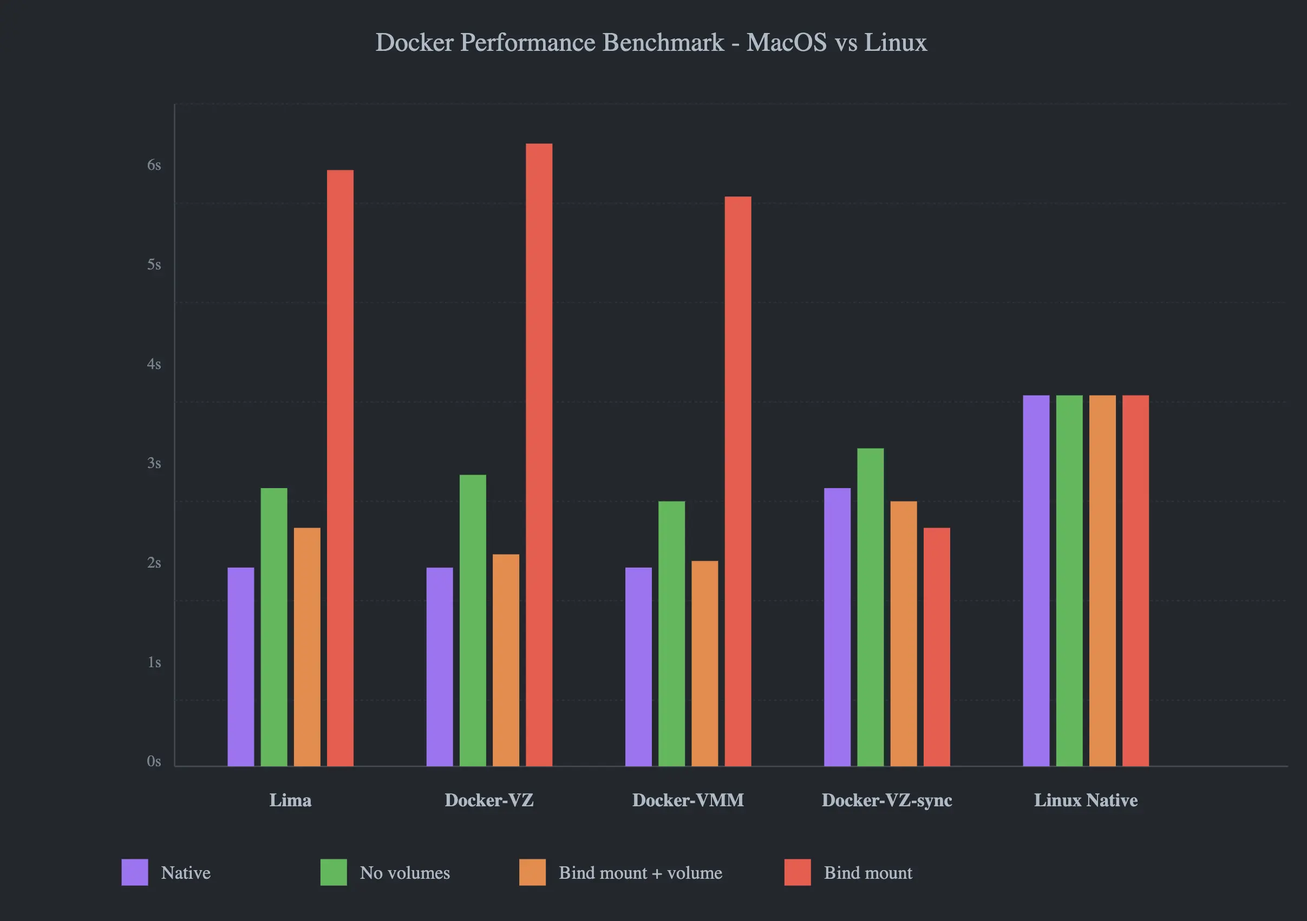
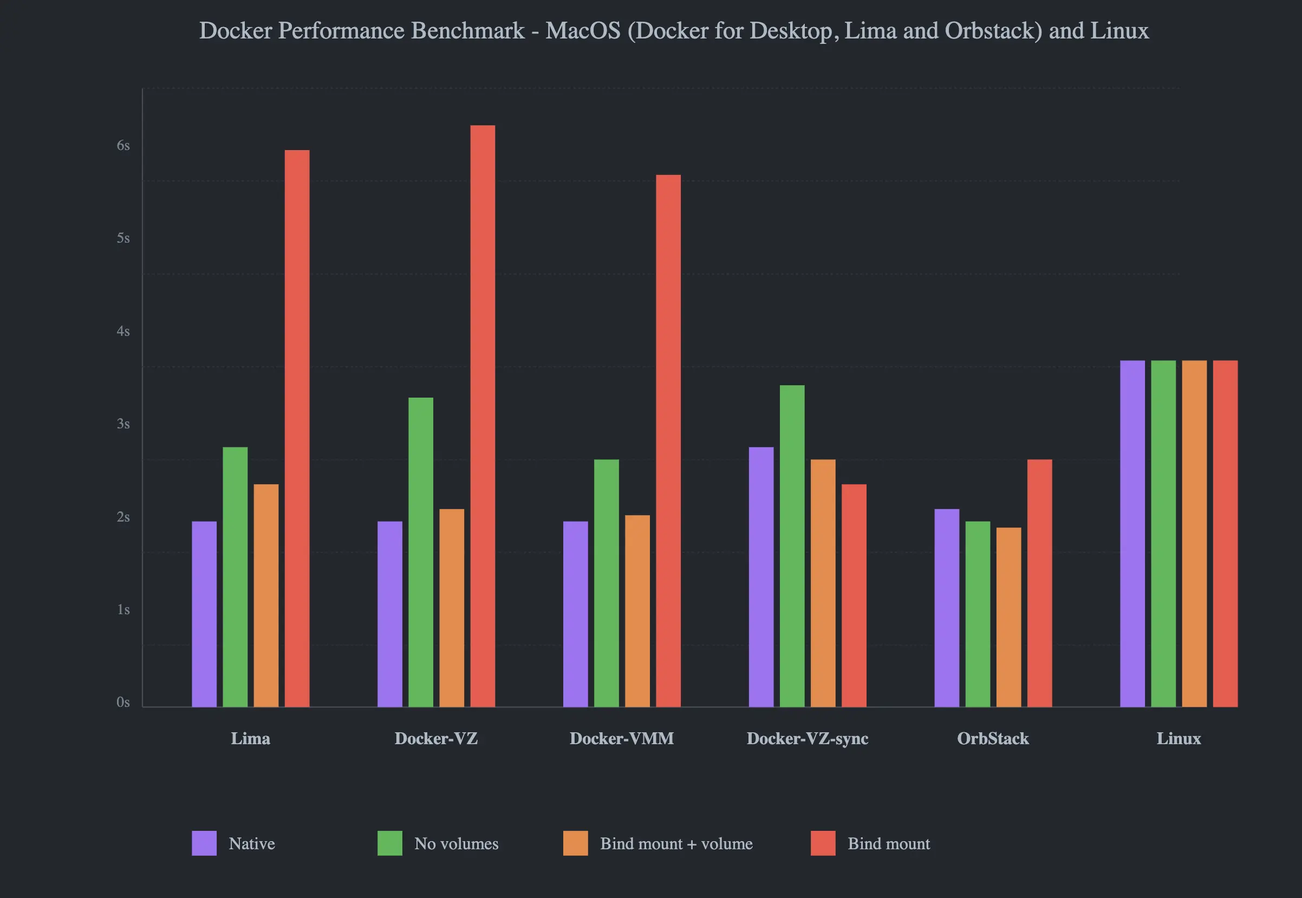
feat: add orbstack (#39)

diff --git a/src/content/posts/10-docker-macos-perf-update/index.md b/src/content/posts/10-docker-macos-perf-update/index.md
@@ -9,13 +9,17 @@ toc = "true"
 images = ["/images/posts/10-docker/og-benchmark-diagram.webp"]
 +++
 
+{{< notice info >}}
+**06/01/2024** Update: Many readers requested the inclusion of [OrbStack](https://orbstack.dev) in the benchmarks. This update introduces OrbStack's performance data, along with updated insights and comparisons.
+{{< /notice >}}
+
 ## TLDR
 
-[Two years after my first analysis](https://www.paolomainardi.com/posts/docker-performance-macos/) **of Docker performance on MacOS**, things have **improved significantly**. **VirtIOFS** is now much faster _(bind mounts are only 3x slower instead of 5-6x)_, and we have new solutions in the ecosystem. **[Lima](https://github.com/lima-vm/lima)** (open-source) **performs well and sometimes better than Docker Desktop**, while Docker's new **file synchronization** feature **offers impressive speed improvements** (59% faster) but **requires a paid subscription**. For the most stable performance, the **hybrid approach** (combining bind mounts with volumes) remains the best practice. Choose your setup based on your needs:
+[Two years after my first analysis](https://www.paolomainardi.com/posts/docker-performance-macos/) **of Docker performance on MacOS**, things have **improved significantly**. **VirtioFS** is now much faster _(bind mounts are only 3x slower instead of 5-6x)_, and we have new solutions in the ecosystem. **[Lima](https://github.com/lima-vm/lima)** (open-source) **performs well and sometimes better than Docker Desktop**, while Docker's new **file synchronization** feature **offers impressive speed improvements** (59% faster) but **requires a paid subscription**. Additionally, **[OrbStack](https://orbstack.dev/)** has emerged as a strong contender, offering excellent performance with bind mounts and native operations. For the most stable performance, the **hybrid approach** (combining bind mounts with volumes) remains the best practice. Choose your setup based on your needs:
 
-- **Fast, stable, and open-source**: Go with Lima.
-- **Maximum speed**: Use Docker Desktop with file synchronization.
-- **Stable performance**: Use the hybrid approach with volumes with any solution.
+- **Fast, stable, and open-source**: Go with **Lima**.
+- **Maximum speed**: Use **Docker Desktop with file synchronization** or **OrbStack**.
+- **Stable performance**: Use the **hybrid approach** with volumes with any solution.
 
 ## Introduction
 
@@ -23,52 +27,52 @@ images = ["/images/posts/10-docker/og-benchmark-diagram.webp"]
 
 Despite the unexpected success, the goal was to explain all the moving parts of Docker when running in a **virtualized environment** like MacOS or Windows. What I found was that in **some circumstances, the performance was very poor**, especially when using bind mounts, a common strategy when developing applications with Docker. At that time, I proposed some strategies, like using [named volumes](https://www.paolomainardi.com/posts/docker-performance-macos/#volumes) instead of bind mounts, or even using [devcontainer](https://www.paolomainardi.com/posts/docker-performance-macos/#gui-editors--ide-users) to improve the developer experience.
 
-Another technique I proposed was enabling the `VirtIOFS` file sharing driver, which was still an experimental feature at that time but could improve the file system performance significantly.
+Another technique I proposed was enabling the `VirtioFS` file sharing driver, which was still an experimental feature at that time but could improve the file system performance significantly.
 
 Now, **almost two years later**, how have things changed? What is the current state of Docker on MacOS? Let's find out together.
 
 ## Linux Virtualization on MacOS
 
-Before diving into some benchmarks, let's take a look at the current technologies that allow Docker to run on MacOS. We'll explore the **Virtualization Framework** and the **VirtIO** standard, which are used by almost all virtualization solutions on MacOS, including those specifically designed for containers like Docker for Desktop, Lima, Rancher Desktop, Podman Desktop, etc.
+Before diving into some benchmarks, let's take a look at the current technologies that allow Docker to run on MacOS. We'll explore the **Virtualization Framework** and the **VIRTIO** standard, which are used by almost all virtualization solutions on MacOS, including those specifically designed for containers like Docker for Desktop, Lima, Rancher Desktop, Podman Desktop, etc.
 
 ### Virtualization Framework
 
 One of the key elements of Docker solutions on MacOS is the **virtualization layer** that allows running Linux Virtual Machines on MacOS. This layer is called [Virtualization Framework](https://developer.apple.com/documentation/virtualization) and has been part of the Apple ecosystem since MacOS Big Sur, which was released in 2020 along with the first Apple Silicon Macs.
 
-It is based on the [Apple Hypervisor Framework](https://developer.apple.com/documentation/hypervisor) but offers high-level APIs to manage virtual machines for MacOS and Linux. It also implements virtual devices, such as network interfaces and block devices, following the VirtIO specifications. Another key feature is the ability to run x86_64 Linux binaries on [Apple Silicon through Rosetta 2](https://developer.apple.com/documentation/virtualization/running_intel_binaries_in_linux_vms_with_rosetta). This feature is particularly powerful as Rosetta is an extremely optimized translation layer, much faster than QEMU for this specific task and environment. Thanks to this integration, we can run `linux/amd64` containers when the `linux/arm64/v8` counterpart is unavailable.
+It is based on the [Apple Hypervisor Framework](https://developer.apple.com/documentation/hypervisor) but offers high-level APIs to manage virtual machines for MacOS and Linux. It also implements virtual devices, such as network interfaces and block devices, following the VIRTIO specifications. Another key feature is the ability to run x86_64 Linux binaries on [Apple Silicon through Rosetta 2](https://developer.apple.com/documentation/virtualization/running_intel_binaries_in_linux_vms_with_rosetta). This feature is particularly powerful as Rosetta is an extremely optimized translation layer, much faster than QEMU for this specific task and environment. Thanks to this integration, we can run `linux/amd64` containers when the `linux/arm64/v8` counterpart is unavailable.
 
 {{< figure src="/images/posts/10-docker/macos-virt-diagram.webp" title="MacOS virtualization architecture" >}}
 
 #### VirtIO drivers
 
-The biggest decision Apple made with this framework was adopting the [VirtIO](https://docs.oasis-open.org/VirtIO/VirtIO/v1.1/csprd01/VirtIO-v1.1-csprd01.html) standard to expose the host hardware to guest VMs as VirtIO drivers. This means that on the Linux side, we can use the same drivers as other hypervisors like KVM or QEMU, which are well-optimized and maintained by the Linux community. On the MacOS side, the system leverages the VirtIO kernel drivers implemented by Apple.
+The biggest decision Apple made with this framework was adopting the [VIRTIO](https://docs.oasis-open.org/virtio/virtio/v1.1/csprd01/virtio-v1.1-csprd01.html) standard to expose the host hardware to guest VMs as VirtIO drivers. This means that on the Linux side, we can use the same drivers as other hypervisors like KVM or QEMU, which are well-optimized and maintained by the Linux community. On the MacOS side, the system leverages the VirtIO kernel drivers implemented by Apple.
 
 The architecture looks more or less like this:
 
 {{< figure src="/images/posts/10-docker/macos-virtio.webp" title="Linux - MacOS VirtIO architecture" >}}
 
-As shown in the diagram, the VirtIO architecture comprises the following components:
+As shown in the diagram, the VIRTIO architecture comprises the following components:
 
 1. **Frontend**: The driver running in the guest VM, responsible for communicating with the backend driver.
 2. **Backend**: The driver running on the host, responsible for communicating with the frontend driver.
 3. **VirtIO queue**: The communication channel between the frontend and backend drivers.
 
-A real-world open-source example of this architecture can be found in QEMU. For instance, in VirtIO-net:
+A real-world open-source example of this architecture can be found in QEMU. For instance, in virtio-net:
 
-1. **Frontend**: https://github.com/qemu/qemu/blob/master/hw/net/VirtIO-net.c
-2. **Backend**: https://github.com/qemu/qemu/blob/master/hw/net/VirtIO-net.c
+1. **Frontend**: https://github.com/qemu/qemu/blob/master/hw/net/virtio-net.c
+2. **Backend**: https://github.com/qemu/qemu/blob/master/hw/net/virtio-net.c
 
 Apple implemented the backend driver in the Virtualization Framework and exposed the VirtIO queues to guest VMs, allowing the Linux kernel to use VirtIO drivers to communicate with the host hardware.
 
-As far as I know, the **Apple VirtIO drivers are not open source**. There are just [a few references in the XNU open-source repository](https://github.com/search?q=repo%3Aapple-oss-distributions%2Fxnu%20VirtIO&type=code). It's almost certain that everything is implemented in userspace, as confirmed by the currently exposed APIs: https://developer.apple.com/search/?q=VirtIO&type=Documentation.
+As far as I know, the **Apple VirtIO drivers are not open source**. There are just [a few references in the XNU open-source repository](https://github.com/search?q=repo%3Aapple-oss-distributions%2Fxnu%20virtio&type=code). It's almost certain that everything is implemented in userspace, as confirmed by the currently exposed APIs: https://developer.apple.com/search/?q=virtio&type=Documentation.
 
-Of course, I've simplified the architecture for clarity, but if you want to know more, I suggest reading the [VirtIO specification](https://docs.oasis-open.org/VirtIO/VirtIO/v1.1/csprd01/VirtIO-v1.1-csprd01.html), the [VirtIO on Linux](https://docs.kernel.org/driver-api/VirtIO/VirtIO.html) documentation, and the super-interesting RedHat article series _(which co-developed the standard with IBM)_ [Virtqueues and VirtIO ring: How the data travels](https://www.redhat.com/en/blog/virtqueues-and-VirtIO-ring-how-data-travels).
+Of course, I've simplified the architecture for clarity, but if you want to know more, I suggest reading the [VIRTIO specification](https://docs.oasis-open.org/virtio/virtio/v1.1/csprd01/virtio-v1.1-csprd01.html), the [Virtio on Linux](https://docs.kernel.org/driver-api/virtio/virtio.html) documentation, and the super-interesting RedHat article series _(which co-developed the standard with IBM)_ [Virtqueues and virtio ring: How the data travels](https://www.redhat.com/en/blog/virtqueues-and-virtio-ring-how-data-travels).
 
 ### libkrun and Docker VMM
 
 Although the **Virtualization.framework** is a nice library covering many use cases, it suffers from being a closed-source project that cannot be extended. This means **only Apple can implement new features**, such as new devices or optimizations.
 
-**Consider running an AI workload** inside a container that requires **GPU acceleration**. Thanks to the **VirtIO-gpu** driver, we can expose the host GPU to the guest VM. However, this is not possible with the current **Apple Virtualization.framework**, as it [only supports 2D acceleration](https://developer.apple.com/videos/play/wwdc2022/10002?time=1077), announced at WWDC 2022, with no further updates. Since it's a closed-source project, no one but Apple can enhance it.
+**Consider running an AI workload** inside a container that requires **GPU acceleration**. Thanks to the **virtio-gpu** driver, we can expose the host GPU to the guest VM. However, this is not possible with the current **Apple Virtualization.framework**, as it [only supports 2D acceleration](https://developer.apple.com/videos/play/wwdc2022/10002?time=1077), announced at WWDC 2022, with no further updates. Since it's a closed-source project, no one but Apple can enhance it.
 
 This is where a new project called [libkrun](https://github.com/containers/libkrun) comes into play. This library offers a modern, **Rust-based Virtual Machine Monitor** that directly integrates with the **Hypervisor framework** for creating Virtual Machines on MacOS. It is fully open source (Apache 2.0), allowing for extensive customization.
 
@@ -89,7 +93,7 @@ From the [official documentation](https://docs.docker.com/desktop/features/vmm):
 Even though the project is **still in beta and closed-source**, **it's worth benchmarking** to see how it performs **compared to the Apple Virtualization Framework**.
 
 {{< notice warning >}}
-At the moment of writing, **Docker VMM**, does not support **Rosetta 2** to run **x86_64** binaries on **Apple Silicon**, this is a limitation imposed by Apple to custom **hypervisors** different from the **Virtualization.framework**, I don't know if this will change in the future, from what they said, they are working on it.
+At the moment of writing, **Docker VMM** does not support **Rosetta 2** to run **x86_64** binaries on **Apple Silicon**. This is a limitation imposed by Apple on custom **hypervisors** different from the **Virtualization.framework**. I don't know if this will change in the future, but from what they said, they are working on it.
 {{< /notice >}}
 
 ## Benchmarks
@@ -109,7 +113,7 @@ This is another **good excuse** to make another Excalidraw diagram:
 
 {{< figure src="/images/posts/10-docker/docker-benchmark-diagram.webp" title="Mounting options" >}}
 
-As explained in [detail here](https://www.paolomainardi.com/posts/docker-performance-macos/), the core idea to keep in mind is that bind mounting is always the slowest and costliest option, as it **requires HOST to VM file-system sharing**, like **VirtIOFS**.
+As explained in [detail here](https://www.paolomainardi.com/posts/docker-performance-macos/), the core idea to keep in mind is that bind mounting is always the slowest and costliest option, as it **requires HOST to VM file-system sharing**, like **VirtioFS**.
 
 ### System information
 
@@ -135,18 +139,21 @@ I'll use the following container **runtime platforms**:
 
 #### MacOS
 
-- [Docker for Desktop](https://docs.docker.com/desktop/setup/install/mac-install/): 4.37.1
-  - **Apple Virtualization Framework** + **VirtIOFS**
-  - **Docker VMM** + **VirtIOFS**
-  - **Apple Virtualization Framework** + **VirtIOFS** + **Synchronized file sharing**
-- [Lima](https://www.cncf.io/projects/lima/): 1.0.3
-  - **Apple Virtualization Framework** + **VirtIOFS**
+- [Docker for Desktop](https://docs.docker.com/desktop/setup/install/mac-install/): _4.37.1_
+  - **Closed source** and [free for small businesses (fewer than 250 employees AND less than $10 million in annual revenue)](https://docs.docker.com/subscription/desktop-license/).
+  - **Apple Virtualization Framework** + **VirtioFS**
+  - **Docker VMM** + **VirtioFS**
+  - **Apple Virtualization Framework** + **VirtioFS** + **Synchronized file sharing**
+- [Lima](https://www.cncf.io/projects/lima/): _1.0.3_
+  - **Open source** (Apache 2.0)
+  - **Apple Virtualization Framework** + **VirtioFS**
+- [OrbStack](https://orbstack.dev/): _1.9.2_
+  - **Closed source** - [Pricing](https://orbstack.dev/pricing) and [Licensing](https://docs.orbstack.dev/licensing)
+  - **As it's a closed source project** I can only guess that is based on **Apple Virtualization Framework** _(I guess it because it supports Rosetta 2 out of the box)_. You can find more information here: https://docs.orbstack.dev/faq
 
-[Synchronized file sharing](https://www.docker.com/blog/announcing-synchronized-file-shares/) is a **paid feature** of Docker for Desktop
-that uses [Mutagen](https://github.com/mutagen-io/mutagen), [acquired by Docker in 2023](https://www.docker.com/blog/mutagen-acquisition/),
-to provide a 2-way file synchronization between the host and the guest VM, which should overcome the performance issues of bind mounts.
+{{< notice info >}}
+[Docker Synchronized file sharing](https://www.docker.com/blog/announcing-synchronized-file-shares/) is a **paid feature** of Docker for Desktop that uses [Mutagen](https://github.com/mutagen-io/mutagen), [acquired by Docker in 2023](https://www.docker.com/blog/mutagen-acquisition/), to provide a 2-way file synchronization between the host and the guest VM, which should overcome the performance issues of bind mounts.
 
-{{< notice note >}}
 Theoretically, **the same technology** can be used in **other platforms**, like **Lima**, using [ddev](https://ddev.readthedocs.io/en/stable/users/install/performance/#mutagen). However, **it will not be tested in this benchmark** as I want to stick to what the platforms **offer out of the box**. You can see some benchmarks on the [ddev blog](https://ddev.com/blog/docker-performance-2023/).
 {{< /notice >}}
 
@@ -159,7 +166,7 @@ Theoretically, **the same technology** can be used in **other platforms**, like 
 Both are configured with `8vCPU` and `16GB` of memory. Docker for Desktop is installed with brew and manually configured, as the current CLI does not provide a way to configure the settings. Instead, `Lima` is installed and configured as follows:
 
 ```shell
-limactl create --name=default --vm-type=vz --mount-type=VirtIOfs --mount-writable --memory=16 --cpus=8 --disk=100 template://docker-desktop
+limactl create --name=default --vm-type=vz --mount-type=virtiofs --mount-writable --memory=16 --cpus=8 --disk=100 template://docker-desktop
 ```
 
 ```shell
@@ -179,33 +186,37 @@ lima-default *
 
 {{< /notice >}}
 
-I'm especially interested in the performance of [Lima](https://github.com/lima-vm/lima) as it's a [CNCF Open Source project](https://www.cncf.io/projects/lima/). In [Sparkfabrik](https://www.sparkfabrik.com/), we are still defaulting to **Docker for Desktop**, but we are evaluating switching to other solutions like **Colima**.
+I'm especially interested in the performance of [Lima](https://github.com/lima-vm/lima) as it's a [CNCF Open Source project](https://www.cncf.io/projects/lima/). In [Sparkfabrik](https://www.sparkfabrik.com/), we are still defaulting to **Docker for Desktop**, but we are evaluating switching to other solutions like **Lima**, to keep our stack as Open Source as possible.
 
 ### Results
 
-| Platform           | Test Type           | Average Time (s) | Range (s)     |
-| ------------------ | ------------------- | ---------------- | ------------- |
-| Lima               | Native              | 3.38             | 3.00-3.63     |
-| Lima               | No volumes          | 4.17             | 4.05-4.24     |
-| Lima               | Bind mount + volume | 3.96             | 3.87-4.02     |
-| **Lima**           | **Bind mount**      | **8.99**         | **8.86-9.10** |
-| Docker-VZ          | Native              | 3.37             | 3.00-3.56     |
-| Docker-VZ          | No volumes          | 4.44             | 4.00-4.86     |
-| Docker-VZ          | Bind mount + volume | 3.61             | 3.55-3.70     |
-| **Docker-VZ**      | **Bind mount**      | **9.53**         | **9.44-9.63** |
-| Docker-VMM         | Native              | 3.35             | 3.00-3.53     |
-| Docker-VMM         | No volumes          | 4.05             | 3.87-4.28     |
-| Docker-VMM         | Bind mount + volume | 3.42             | 3.38-3.44     |
-| **Docker-VMM**     | **Bind mount**      | **8.47**         | 8.25-8.60     |
-| Docker-VZ-sync     | Native              | 4.19             | 3.48-4.67     |
-| Docker-VZ-sync     | No volumes          | 4.75             | **4.69-4.84** |
-| Docker-VZ-sync     | Bind mount + volume | 4.06             | 3.94-4.30     |
-| **Docker-VZ-sync** | **Bind mount**      | **3.88**         | **3.83-3.94** |
-|                    |                     |                  |               |
-| Linux              | Native              | 5.32             | 5.29-5.36     |
-| Linux              | No volumes          | 5.29             | 5.22-5.34     |
-| Linux              | Bind mount + volume | 5.22             | 5.20-5.23     |
-| **Linux**          | **Bind mount**      | **5.29**         | **5.23-5.33** |
+| OS        | Platform           | Test Type           | Average Time (s) | Range (s)     |
+| --------- | ------------------ | ------------------- | ---------------- | ------------- |
+| MacOS     | Lima               | Native              | 3.38             | 3.00-3.63     |
+| MacOS     | Lima               | No volumes          | 4.17             | 4.05-4.24     |
+| MacOS     | Lima               | Bind mount + volume | 3.96             | 3.87-4.02     |
+| **MacOS** | Lima               | **Bind mount**      | **8.99**         | **8.86-9.10** |
+| MacOS     | Docker-VZ          | Native              | 3.37             | 3.00-3.56     |
+| MacOS     | Docker-VZ          | No volumes          | 4.44             | 4.00-4.86     |
+| MacOS     | Docker-VZ          | Bind mount + volume | 3.61             | 3.55-3.70     |
+| **MacOS** | **Docker-VZ**      | **Bind mount**      | **9.53**         | **9.44-9.63** |
+| MacOS     | Docker-VMM         | Native              | 3.35             | 3.00-3.53     |
+| MacOS     | Docker-VMM         | No volumes          | 4.05             | 3.87-4.28     |
+| MacOS     | Docker-VMM         | Bind mount + volume | 3.42             | 3.38-3.44     |
+| MacOS     | Docker-VMM         | **Bind mount**      | **8.47**         | **8.25-8.60** |
+| MacOS     | Docker-VZ-sync     | Native              | 4.19             | 3.48-4.67     |
+| MacOS     | Docker-VZ-sync     | No volumes          | 4.75             | 4.69-4.84     |
+| MacOS     | Docker-VZ-sync     | Bind mount + volume | 4.06             | 3.94-4.30     |
+| **MacOS** | **Docker-VZ-sync** | **Bind mount**      | **3.88**         | **3.83-3.94** |
+| MacOS     | OrbStack           | Native              | 3.61             | 3.54-3.75     |
+| MacOS     | OrbStack           | No volumes          | 3.28             | 3.20-3.39     |
+| MacOS     | OrbStack           | Bind mount + volume | 3.19             | 3.14-3.29     |
+| **MacOS** | **OrbStack**       | **Bind mount**      | **4.22**         | **4.15-4.27** |
+|           |                    |                     |
+| Linux     | Docker-Linux       | Native              | 5.32             | 5.29-5.36     |
+| Linux     | Docker-Linux       | No volumes          | 5.29             | 5.22-5.34     |
+| Linux     | Docker-Linux       | Bind mount + volume | 5.22             | 5.20-5.23     |
+| **Linux** | **Docker-Linux**   | **Bind mount**      | **5.29**         | **5.23-5.33** |
 
 {{< figure src="/images/posts/10-docker/benchmark-graph.svg" >}}
 
@@ -226,6 +237,9 @@ The **overall slower execution times on Linux** (5s) compared to MacOS (3s) are 
 
 1. **Lima vs Docker Desktop Performance**
    Interestingly, **Lima outperforms standard Docker Desktop with Apple Virtualization Framework** in bind mount operations, **clocking at 8.99 seconds compared to 9.53 seconds**. This difference, while modest, demonstrates Lima's efficiency in handling filesystem operations and that **it is already a viable alternative to Docker Desktop**.
+
+1. **OrbStack's Notable Performance**
+   Among the tested platforms, **OrbStack stands out with its impressive performance**, especially in scenarios involving **bind mounts and native operations**. With a **bind mount time of 4.22 seconds**, OrbStack outperforms both standard Docker Desktop and Lima in similar tests. This suggests that OrbStack leverages the **Apple Virtualization Framework** more efficiently, likely with additional optimizations for file-sharing mechanisms. Developers looking for a blend of speed and ease of use may find OrbStack to be a compelling option.
 
 1. **Bind Mounts Performance Impact**
    [As previously documented](https://www.paolomainardi.com/posts/docker-performance-macos/#volumes-vs-bind-mounts), **bind mounts remain the slowest option**, running approximately **3x slower than native operations**. However, there's notable progress: previous benchmarks showed bind mounts being 5-6x slower, indicating significant **VirtIOFS performance improvements** on MacOS.
@@ -256,7 +270,7 @@ After **two years** from my first analysis, the **Docker ecosystem** on MacOS ha
    The **VirtIOFS** improvements are notable - **bind mount** operations are now only **3x slower** than native operations, compared to **5-6x slower** two years ago. This is a substantial improvement in daily development workflows.
 
 2. **New Solutions Are Emerging**
-   The introduction of **Docker VMM** and the maturity of **Lima** show how the ecosystem is evolving. Lima, being an **open-source CNCF project**, proves to be a viable alternative to **Docker Desktop**, sometimes even outperforming it in bind mount operations.
+   The introduction of **Docker VMM**, the maturity of **Lima**, and the strong performance of **OrbStack** show how the ecosystem is evolving. Lima and OrbStack prove to be viable alternatives to **Docker Desktop**, each excelling in different areas.
 
 3. **File Synchronization is Game-Changing**
    Docker's **file synchronization** feature shows impressive results, reducing bind mount operation times by **59%**. However, being a **paid feature**, developers need to evaluate if the performance boost justifies the cost for their specific needs.
@@ -271,12 +285,13 @@ After **two years** from my first analysis, the **Docker ecosystem** on MacOS ha
 - For larger projects, either **Docker with file synchronization** or **Lima** could be the best choice
 - Still the **hybrid approach** with volumes offers the most predictable performance.
 
-Looking forward, we can expect further improvements in the MacOS Docker ecosystem, especially with new projects like **Docker VMM** and the continuous development of **Lima**. The gap between native Linux performance and MacOS virtualized environments continues to narrow, making Docker on MacOS an increasingly viable option for development workflows.
+Looking forward, we can expect further improvements in the MacOS Docker ecosystem, especially with new projects like **Docker VMM** and the continuous development of **Lima** and **OrbStack**. The gap between native Linux performance and MacOS virtualized environments continues to narrow, making Docker on MacOS an increasingly viable option for development workflows.
 
 {{< notice tip >}}
 If you're setting up a new development environment on MacOS today, I recommend:
 
 - Using **Lima** if you prefer **open-source** solutions, as it offers comparable performance to Docker Desktop, sometimes even outperforming it. It's a great choice, but it doesn't offer any GUI, it is just a CLI tool, which I prefer, but could be a deal-breaker for some.
+- Using **OrbStack** for a blend of speed and usability, as it achieves strong performance across multiple test scenarios.
 - Using **Docker Desktop** with **file synchronization** if using closed-source and budget isn't a constraint.
 - Implementing the **hybrid approach** with volumes for the most stable performance - see the [previous article](https://www.paolomainardi.com/posts/docker-performance-macos/) with some examples.
   {{< /notice >}}
@@ -287,14 +302,6 @@ Thanks for reading all of this, and if you find something wrong or want to discu
 
 Here a list of some very random references I've collected during my research:
 
-1. [What makes Docker VMM better than Apple Virtualization Framework?](https://github.com/docker/for-mac/issues/7464)
-2. [Docker VMM](https://docs.docker.com/desktop/features/vmm/)
-3. [REDHAT - vfkit - A macOS hypervisor using Apple's virtualization framework](https://crc.dev/blog/Container%20Plumbing%202023%20-%20vfkit%20-%20A%20minimal%20hypervisor%20using%20Apple%27s%20virtualization%20framework.pdf)
-4. [vz - Go binding with Apple Virtualization.framework](https://github.com/Code-Hex/vz)
-5. [vfkit - Simple command line tool to start VMs through the macOS Virtualization framework](https://github.com/crc-org/vfkit)
-6. [What Are the Latest Docker Desktop Enterprise-Grade Performance Optimizations?](https://www.docker.com/blog/what-are-the-latest-docker-desktop-enterprise-grade-performance-optimizations/#boost-performance-Docker-VMM)
-7. [Tart is a virtualization toolset to build, run and manage macOS and Linux virtual machines on Apple Silicon](https://tart.run/)
-8. [Podman 5.2 Enhances macOS VMs with GPU Support](https://linuxiac.com/podman-5-2-enhances-macos-vms-with-gpu-support/)
-9. [Introduction to VirtIO](https://blogs.oracle.com/linux/post/introduction-to-VirtIO)
-10. [Virgl not functionning under Apple's virtualization.framework](https://github.com/utmapp/UTM/discussions/5482)
-11. [macOS Docker Provider Performance, November 2023](https://ddev.com/blog/docker-performance-2023/)
+1. [What makes Docker VMM better than
+
+Apple Virtualization Framework?](https://github.com/docker/for-mac/issues/7464) 2. [Docker VMM](https://docs.docker.com/desktop/features/vmm/) 3. [REDHAT - vfkit - A macOS hypervisor using Apple's virtualization framework](https://crc.dev/blog/Container%20Plumbing%202023%20-%20vfkit%20-%20A%20minimal%20hypervisor%20using%20Apple%27s%20virtualization%20framework.pdf) 4. [vz - Go binding with Apple Virtualization.framework](https://github.com/Code-Hex/vz) 5. [vfkit - Simple command line tool to start VMs through the macOS Virtualization framework](https://github.com/crc-org/vfkit) 6. [What Are the Latest Docker Desktop Enterprise-Grade Performance Optimizations?](https://www.docker.com/blog/what-are-the-latest-docker-desktop-enterprise-grade-performance-optimizations/#boost-performance-Docker-VMM) 7. [Tart is a virtualization toolset to build, run and manage macOS and Linux virtual machines on Apple Silicon](https://tart.run/) 8. [Podman 5.2 Enhances macOS VMs with GPU Support](https://linuxiac.com/podman-5-2-enhances-macos-vms-with-gpu-support/) 9. [Introduction to VirtIO](https://blogs.oracle.com/linux/post/introduction-to-virtio) 10. [Virgl not functionning under Apple's virtualization.framework](https://github.com/utmapp/UTM/discussions/5482) 11. [macOS Docker Provider Performance, November 2023](https://ddev.com/blog/docker-performance-2023/)
